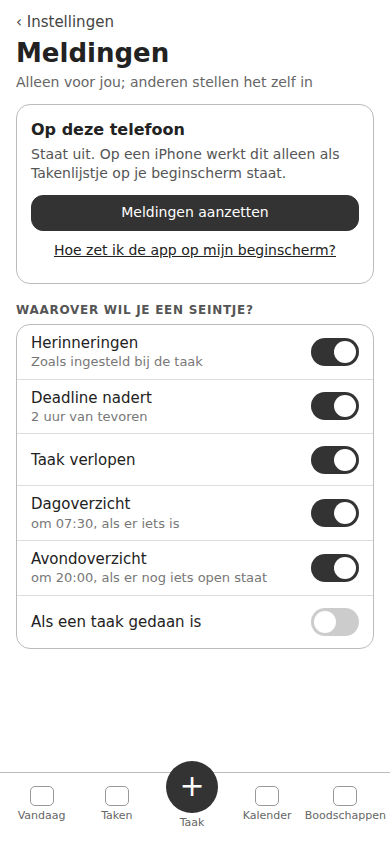
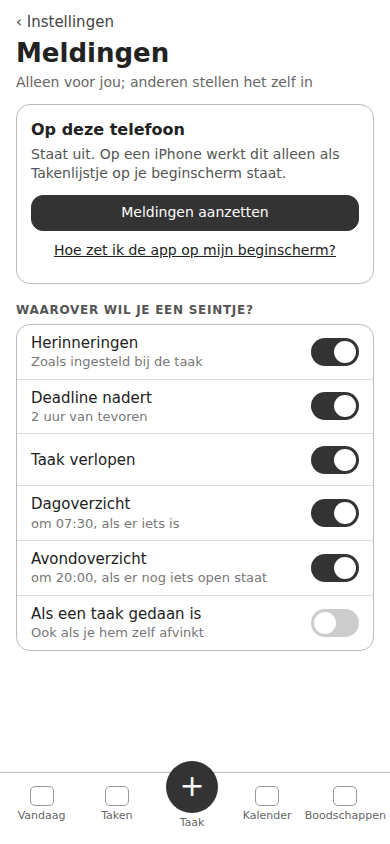
UX_SPEC ronde 6: V-37, V-38, V-39 verwerkt
Claude-Session: https://claude.ai/code/session_01WXgN2KAqhzPZRNUJQnq1N3

Changed region(s): [[0.0615, 0.7085, 0.5231, 0.7701], [0.8, 0.7393, 0.8615, 0.7701]]

diff --git a/docs/prototype/wireframes/21-meldingen-instellen.html b/docs/prototype/wireframes/21-meldingen-instellen.html
@@ -16,7 +16,7 @@
       <div class="li nochev"><div>Taak verlopen</div><span class="toggle on"></span></div>
       <div class="li"><div>Dagoverzicht<small>om 07:30, als er iets is</small></div><span class="toggle on"></span></div>
       <div class="li"><div>Avondoverzicht<small>om 20:00, als er nog iets open staat</small></div><span class="toggle on"></span></div>
-      <div class="li nochev"><div>Als een taak gedaan is</div><span class="toggle"></span></div>
+      <div class="li nochev"><div>Als een taak gedaan is<small>Ook als je hem zelf afvinkt</small></div><span class="toggle"></span></div>
     </div>
   </section>
 </main>

diff --git a/docs/TECHNICAL_DESIGN.md b/docs/TECHNICAL_DESIGN.md
@@ -12,7 +12,7 @@ Auteur: solution-architect. Document voor de bouwer (Claude); technische termen 
 4. laden, fouten, offline en sheets krijgen een vaste structuur (S-01…S-04, UX §12);
 5. de visuele laag wordt vervangen volgens `DESIGN_SYSTEM.md`.
 
-Ronde 2 (2026-09-28): Jurgen heeft V-30 t/m V-35 beantwoord met "Volg je voorstellen" (letterlijk in `docs/PROGRESS.md`). Ronde 3 (2026-09-28): de bevindingen van de plan-critic (ronde 1) die bij het technisch ontwerp horen, zijn verwerkt. Open blijven alleen `[OPEN: V-36]` en `[OPEN: V-38]` (zie §17).
+Ronde 2 (2026-09-28): Jurgen heeft V-30 t/m V-35 beantwoord met "Volg je voorstellen" (letterlijk in `docs/PROGRESS.md`). Ronde 3 (2026-09-28): de bevindingen van de plan-critic (ronde 1) die bij het technisch ontwerp horen, zijn verwerkt. Ronde 4: V-36 t/m V-39 verwerkt; er zijn geen open plekken meer (zie §17).
 
 ---
 
@@ -329,7 +329,7 @@ Gemeenschappelijk:
 | Actie | Invoer (zod) | Autorisatie | Transactie | Idempotentie | Resultaat | Offline |
 | --- | --- | --- | --- | --- | --- | --- |
 | `createTaskAction` | `taskInput` zonder `assignedMemberId`/`autoAssign`/`points`; verplicht `id` (client-uuid); optioneel `recurrence` met verplicht `recurrenceId` (client-uuid) | `requireMember`; RLS `can_create_tasks` | losse taak: één upsert. Reeks: insert van de reeks met de user-client (RLS), daarna `planner.topUp` (alleen invoegen) | upsert op `id` met `ignoreDuplicates`; reeks idem op `recurrenceId` | `TaskRow[]` (nieuw of bestaand) | **losse taak: ja** (optimistisch, in de wachtrij). **Reeks: nee** ("Hiervoor heb je internet nodig") |
-| `completeTaskAction` | `{ taskId, mutationId, completedAt, note? }` | `requireMember`; RPC `complete_task` (lidmaatschap, `for update` op de taak) | RPC (één transactie): completion + status. Daarna `planner.topUp([recurrence])` en `notify(task_completed)`; de ontvangers volgen het antwoord op V-38 `[OPEN: V-38]` (fouten daarin worden gelogd; de actie slaagt) | `client_mutation_id unique` + `unique (task_id)` + "al done → bestaande terug" | `{ completionId, taskId, wasLate }` | ja |
+| `completeTaskAction` | `{ taskId, mutationId, completedAt, note? }` | `requireMember`; RPC `complete_task` (lidmaatschap, `for update` op de taak) | RPC (één transactie): completion + status. Daarna `planner.topUp([recurrence])` en `notify(task_completed)`; ontvangers: **ieder actief lid met account dat "taak gedaan" aan heeft staan, inclusief wie afvinkte** (besluit V-38a). De actor-id wordt dus niet gebruikt om ontvangers te filteren, en de ontvangerslijst verraadt niet wie afvinkte (fouten daarin worden gelogd; de actie slaagt) | `client_mutation_id unique` + `unique (task_id)` + "al done → bestaande terug" | `{ completionId, taskId, wasLate }` | ja |
 | `undoCompleteAction` | `{ taskId }` | `requireMember`; RPC `undo_complete_task` (ieder actief lid, V-22) | RPC | niet `done` → no-op | `TaskRow` | ja (haalt een nog niet verstuurde afvinking uit de wachtrij, bestaand) |
 | `setTaskStatusAction` | `{ taskId, status: 'todo'\|'in_progress'\|'skipped' }` | `loadOwnTask`; RLS update | één update met `expectRows`; bij `skipped` in een reeks daarna `planner.topUp` | gelijke status → no-op | `TaskRow` | ja |
 | `moveTaskAction` | `{ taskId, date }` | `loadOwnTask`; RLS | één update: `scheduled_date`; `available_from` en `due_at` schuiven met hetzelfde aantal dagen (`shiftInstant`, **bevestigt de UX-aanname** §4.6); `is_exception = true` in een reeks | zelfde datum → no-op | `TaskRow` | ja |
@@ -350,7 +350,7 @@ Gemeenschappelijk:
 | Actie | Autorisatie | Uitvoering | Idempotentie |
 | --- | --- | --- | --- |
 | `createHouseholdAction` | `requireUser`; RPC weigert als al lid (BR-44) | RPC `create_household` | het tweede verzoek weigert "al lid" → de UI stuurt door naar `/` |
-| `updateHouseholdAction` (naam, tijdzone, `membersCanCreateTasks`) | `requireAdmin` | update + `expectRows`. **Tijdzone wijzigen** (plan-critic 19): bestaande taken houden hun opgeslagen momenten (`available_from`, `due_at` als tijdstip). Daarna plant de action met de systeemplanner alle actieve reeksen opnieuw vanaf morgen (`clear_series_occurrences(r, morgen, null, false)` per reeks + `topUp`), zodat nieuwe uitvoeringen de nieuwe tijdzone volgen. Uitzonderingen en gedane taken blijven. De gedragsbeschrijving staat hier; of het veld in de UI zichtbaar blijft, is een productkeuze (UC-12) | natuurlijk idempotent |
+| `updateHouseholdAction` (naam, `membersCanCreateTasks`) | `requireAdmin` | update + `expectRows`. **Tijdzone vast op `Europe/Amsterdam` (besluit V-39):** het invoerschema kent geen `timezone` meer. De UI toont de tijdzone alleen, zonder bediening. `create_household` negeert `p_timezone` en zet altijd `Europe/Amsterdam`. In de database: `check (timezone = 'Europe/Amsterdam')` in `…_200`, na voorcontrole M1(f). De kolom blijft bestaan, omdat de domeincode (`todayIn`, `zonedInstant`) de tijdzone als parameter gebruikt; zo blijft die code ongewijzigd en getest. Herplannen bij een tijdzonewissel is daarmee niet nodig | natuurlijk idempotent |
 | `completeOnboardingAction` | `requireAdmin` | update | idem |
 | `updateMemberAction` (profiel: naam, kleur, emoji / beheerder: rol, `isActive`) | `requireMember`; eigen rij of `requireAdmin`; guard (BR-24, V-29) | update + `expectRows` | idem |
 | `removeMemberAction` | `requireAdmin`; niet jezelf; guard | delete + `expectRows` | al weg → `NOT_FOUND` |
@@ -659,7 +659,7 @@ Alles is klein. Het risico zit in **herhaald** laden (P-01), niet in de volumes.
 | # | Stap | Wie | Controle |
 | --- | --- | --- | --- |
 | M0 | Voorbereiding in de sandbox: `…_200` en `…_210` + `restore_v2.sql` op een lokale kopie van het oude schema met seed-data die op live lijkt (alle vervallen velden gevuld, leden zonder account, ruilverzoeken, afwezigheden). Draaien: back-up → contract → restore → vergelijken | bouwer | `restore_check_v2.sql` geeft per tabel een identiek aantal rijen en een identieke checksum (`md5(string_agg(t::text, '' order by id))`) |
-| M1 | **Voorcontroles op live, alleen lezen, vóór elke WP2-migratie** (plan-critic 6; `supabase/ops/precheck_v2.sql`): (a) een gebruiker in meer dan één huishouden? (b) meer dan één completion per `task_id`? (c) meer dan één actieve boodschappenlijst per huishouden (de index in `…_200` zou dan falen)? (d) leden met account en `is_active = false` (ter controle na stap 0 van §12.3)? (e) aantallen van alles wat verdwijnt | bouwer | (a)/(b)/(c) ≠ 0 → **stoppen**, niets toepassen, de opties aan Jurgen voorleggen. Er wordt geen ontdubbelregel verzonnen. (d) ≠ 0 → melden |
+| M1 | **Voorcontroles op live, alleen lezen, vóór elke WP2-migratie** (plan-critic 6; `supabase/ops/precheck_v2.sql`): (a) een gebruiker in meer dan één huishouden? (b) meer dan één completion per `task_id`? (c) meer dan één actieve boodschappenlijst per huishouden (de index in `…_200` zou dan falen)? (d) leden met account en `is_active = false` (ter controle na stap 0 van §12.3)? (e) aantallen van alles wat verdwijnt? (f) een huishouden met een andere tijdzone dan `Europe/Amsterdam` (V-39) | bouwer | (a)/(b)/(c)/(f) ≠ 0 → **stoppen**, niets toepassen, de opties aan Jurgen voorleggen. Er wordt geen ontdubbelregel verzonnen. (d) ≠ 0 → melden |
 | M2 | `…_200_scope_expand` op live + de WP2a-code deployen. De app schrijft geen persoonsvelden meer en leest ze niet | bouwer | rooktest; `select count(*) … where completed_by_member_id is not null and completed_at > <deploymoment>` = 0 |
 | M3 | **Back-up** (besluit V-33): `supabase/ops/backup_v2.sql` kopieert **alle tabellen van `public`** 1-op-1 naar het schema `backup_v2_<datum>` in hetzelfde project (Frankfurt). Het schema wordt niet via de API ontsloten: `revoke all … from anon, authenticated`. **Geen los exportbestand** (V-33); er verlaten geen persoonsgegevens het project | bouwer | rijen in de back-up = rijen op live, per tabel |
 | M4 | **Restore-test:** `restore_check_v2.sql` zet de back-up terug in een apart schema `restore_check` en vergelijkt aantallen en checksums met live. Daarna wordt `restore_check` weer gedropt | bouwer | alle tabellen identiek → verder; anders stoppen |
@@ -734,15 +734,15 @@ Alles is klein. Het risico zit in **herhaald** laden (P-01), niet in de volumes.
 | **WP1 — Rechtenmodel en securityfixes (live, niet-destructief)** | **Eerst stap 0 van §12.3** (telling van uitgezette leden met account op live; > 0 → Jurgen). Migraties `…_100`, `…_110` (inclusief de regel "Reekskoppeling"); **wachtrij-endpoint `POST /api/outbox` + `OUTBOX_VERSION` + `migrateOutboxEntry` + "nooit stil weggooien" (§9.3.1)**, zodat elke latere deploy de offline-wachtrij niet meer kan breken; `src/server/system/**` + ESLint-regel; `expectRows`; `ActionResult.code`; `stopSeries`, `pauseSeries`, `deleteTask` en `updateTask future` via RPC's zonder service role; `systemDb` en `fallbackDb` weg; notificatie-insert alleen door het systeem + URL-check + SW-originecheck; `/api/status` achter Bearer; `is_active` in de helpers + `/geen-toegang` (minimaal) + `clearLocalData()` bij uitloggen en uitzetten; Next 16.3.7. Op de **huidige** UI (alleen de minimaal nodige UI-aanpassing) | — | B-01, B-02 (route vervalt pas in WP2; tot dan: `autoAssign` met de user-client en een weigering als het niet mag), B-03, B-04, B-05, BR-22, BR-23, BR-24, BR-25, BR-26, BR-43, V-29 | geen (backend) | code, test-writer, **security**. Live na de review |
 | **WP2a — Scope uit de code + expand (aanbeveling 15)** | Code: toewijzing, verdeling, ruilen, afwezigheid, punten, "namens", `completed_by` en `added_by`/`bought_by` eruit (server, domein, store, mutaties, de schermen waar ze nu staan: minimaal verwijderen, geen herontwerp); `complete_task` v2, `undo` voor iedereen; voorkeuren per rol; `author_name` + triggers (V-34); BR-44; idempotente uitnodigingen, standaardtaken en archiveren; `migrateOutboxEntry` v0 → v1 voor de vervallen soorten; seed en tests bijgewerkt; M0 (sandbox-proef van het draaiboek). Live: §12.4 **M1 (voorcontroles) → M2 (expand + deploy)** | WP1 | UC-02, BR-10…BR-14, BR-20, BR-31 (standaarden), BR-41, BR-42, BR-44, R-03, V-21, V-22, V-24, V-25, V-34 | geen (backend); rooktest na M2 | code, test-writer, **security**, **performance** (snapshot zonder de vervallen tabellen) |
 | **WP2b — Back-up, bevestiging en wissen (contract)** | §12.4 **M3–M8**: back-up, restore-test, hertelling, **"ja, wissen" van Jurgen (M5)**, `…_210` in dezelfde sessie, rooktest, na 30 dagen de back-up opruimen. Het wachten op Jurgen houdt WP3 en verder **niet** tegen: de code van WP2a gebruikt de vervallen kolommen al niet meer | WP2a (en M0 geslaagd) | BR-46, V-26, V-33; succescriterium 7 | geen; controles M6 | code (scripts), **security** (inhoudscontrole meldingen, privacytest op live). **Bevestiging van Jurgen bij M5** |
-| **WP3 — Achtergrond: planner, tick, meldingen, retentie** | `supabase/ops/planner.sql` (V-32: pg_cron + pg_net, geheim in Vault); tick set-gebaseerd (§11.3); ontvangers volgens V-23; teksten zonder namen; ontvangers van "taak gedaan" volgens `[OPEN: V-38]`; `pushed_at` op id; push-time-out; `…_300_retentie`; `vercel.json` als vangnet | **WP2a** (niet WP2b: de planner hangt niet af van het wissen) | BR-16, BR-30, BR-31, BR-45, R-01, R-02, UC-08 | geen; meting: tijd tussen het geplande moment en de melding ≤ 15 min (succescriterium 5) | code, test-writer, **security** (Bearer, Vault), **performance** (tickduur) |
+| **WP3 — Achtergrond: planner, tick, meldingen, retentie** | `supabase/ops/planner.sql` (V-32: pg_cron + pg_net, geheim in Vault); tick set-gebaseerd (§11.3); ontvangers volgens V-23; teksten zonder namen; "taak gedaan" naar iedereen met die voorkeur aan, ook naar wie afvinkte (V-38a; `recipientsFor` krijgt geen actor-parameter); `pushed_at` op id; push-time-out; `…_300_retentie`; `vercel.json` als vangnet | **WP2a** (niet WP2b: de planner hangt niet af van het wissen) | BR-16, BR-30, BR-31, BR-45, R-01, R-02, UC-08 | geen; meting: tijd tussen het geplande moment en de melding ≤ 15 min (succescriterium 5) | code, test-writer, **security** (Bearer, Vault), **performance** (tickduur) |
 | **WP4 — Fundament UI: tokens, lettertype, shell, navigatie, states, sheets** | `globals.css` volgens DESIGN_SYSTEM §4 (één bron, D-01); Figtree zelf gehost via `next/font/local` (V-31); accent `#2B4C9B` + nieuw app-icoon in die tint (V-30); componenten in `src/components/ui/*` restyled; `AppShell` (onderbalk: Vandaag · Taken · + · Kalender · Boodschappen; kop: bel + tandwiel; V-28); max. 480 px-kolom (D-05); Toaster onder; `(app)/layout` met Suspense + `DataErrorBoundary`; `loading`/`error`/`not-found`/`global-error`; `SheetHost` + `sheets.ts` + `appUrl`; offlinebalk; SW: 3 s time-out, `/offline`-fallback, `CLEAR_PAGES`; snapshot-slices + gericht Realtime (P-01); manifest `theme_color` | WP2a | S-01, S-04, D-01, D-05, P-01, UX §3, §7 | **CP1** (shell en navigatie, leeg, laden, fout, offline) | code, test-writer, **performance** (payload, LCP), **visual-qa** |
 | **WP5 — Vandaag en de afvinken-kernflow + taakdetail** | Vandaag volgens UX §5.1 (Verlopen, Vandaag, gedaan-regel, Binnenkort, weekkaart); taakrij met **twee losse knoppen** (rondje + rij, A-01); optimistisch afvinken en ongedaan maken; "wacht op verbinding"; detail-sheet `?taak=` (acties, notities met laadfout S-03, Vorige keren); lege staten a/b; outbox-foutafhandeling | WP4 | UC-01, UC-02, BR-10, BR-11, BR-13, BR-14, BR-17, D-02, A-01, S-03 (notities); succescriteria 6 | **CP2** (Vandaag) → **CP3** (kernflow met leeg, laden, fout, succes, offline, bezig) | code, test-writer (+ **E2E kernflow**), **performance**, **visual-qa** (CP2 en CP3), **ux-reviewer** (CP3) |
 | **WP6 — Taak maken en wijzigen, reeksen, Taken-scherm** | Nieuwe taak `?nieuw` (Naam · Wanneer, slimme invoer zonder personen, Herhalen, Meer instellingen; offline losse taak); Bewerken `?bewerk` + "Wat wil je wijzigen?"; pauzeren, hervatten, stoppen, verwijderen; Taken (Open, Gedaan, Terugkerend, filtersheet, actieve filters wissen, zoekveld met label); reeksdetail `?reeks` met **Wijzigen via `updateSeriesAction`** (ook zonder open uitvoering of tijdens een pauze); standaardtaken activeren | WP5 | UC-03, UC-04, BR-01, BR-02, BR-08, BR-09, BR-18, BR-20, BR-22, BR-23, S-03 (filters), A-03 (label), D-04 | CP3-aanvulling (formulierstates) | code, test-writer, **visual-qa**, **ux-reviewer** |
-| **WP7 — Instellingen, account en auth** | Instellingen als lijst + subpagina's (D-03); profiel; meldingen instellen + push (iOS-uitleg); gezinsleden (uitzetten, weer aanzetten, rol, verwijderen, uitnodigen, intrekken); standaardtaken beheren; huishouden (+ verwijderen); account verwijderen; login zonder "Nieuw"; wachtwoord vergeten en nieuw wachtwoord; uitnodiging accepteren (account maken of inloggen, BR-44-fout); onboarding zonder verdeling en zonder Google/Apple; `/geen-toegang` definitief; het scherm "niet meer lid" vóór de onboarding (§4.6); tijdzone wijzigen met herplannen (§6.2) | WP4 (WP5 voor de navigatie) | UC-09, UC-10, UC-11, UC-12, BR-24, BR-41, BR-43, BR-44, V-14, V-15, V-23, V-29 | CP3-aanvulling (instellingen, login) | code, test-writer, **security** (auth-flows, verwijderen), **visual-qa**, **ux-reviewer** |
+| **WP7 — Instellingen, account en auth** | Instellingen als lijst + subpagina's (D-03); profiel; meldingen instellen + push (iOS-uitleg); gezinsleden (uitzetten, weer aanzetten, rol, verwijderen, uitnodigen, intrekken); standaardtaken beheren; huishouden (+ verwijderen); account verwijderen; login zonder "Nieuw"; wachtwoord vergeten en nieuw wachtwoord; uitnodiging accepteren (account maken of inloggen, BR-44-fout); onboarding zonder verdeling en zonder Google/Apple; `/geen-toegang` definitief; het scherm "niet meer lid" vóór de onboarding (§4.6); tijdzone alleen tonen, vast `Europe/Amsterdam` (V-39, §6.2) | WP4 (WP5 voor de navigatie) | UC-09, UC-10, UC-11, UC-12, BR-24, BR-41, BR-43, BR-44, V-14, V-15, V-23, V-29 | CP3-aanvulling (instellingen, login) | code, test-writer, **security** (auth-flows, verwijderen), **visual-qa**, **ux-reviewer** |
 | **WP8 — Kalender, Boodschappen, Meldingen, Overzicht** | Kalender dag/week/maand met periodes laden (S-02), spookjes, "+ Taak" per dag, slepen als extra naast "Andere dag…" (A-02); Boodschappen (onderbalk, archiveren + ongedaan maken, bewerken `?product`); Meldingen (groepen, keyset "Oudere laden", push-kaart, A-03-stip); Overzicht (`/overzicht`, huishoudcijfers, lege staat) | WP5 | UC-05, UC-06, UC-07, UC-08, BR-42, S-02, S-03, A-02, A-03, D-04 | **CP4-voorbereiding** | code, test-writer, **performance** (periodes laden, meldingen), **visual-qa**, **ux-reviewer** |
 | **WP9 — Hardening en opruimen** | Alle states uit UX §7 nalopen; CSP met nonce in `proxy.ts`; ESLint bijwerken; dode code weg (`src/integrations/*`, features van toewijzing, punten en afwezigheid, `supabase/cron/schedule-tick.sql`); `docs/ARCHITECTUUR.md` vervangen door een verwijzing naar dit document (lost de vier afwijkingen op); prototypes archiveren; E2E volledig; succescriteria 5–7 meetbaar maken | WP3–WP8 | DoD niveau 2, INVENTARIS §7 "Overig" | **CP4** (volledige UI, licht en donker, 390×844) | alle verplichte reviewers voor de release gate: code, test-writer, **security** (volledig), **performance**, **ux**, **visual-qa**, accessibility (voorstel) |
 
-**Uitrol:** welke WP's direct live gaan en welke samen in één release, volgt uit `[OPEN: V-36]` (zie §12.3).
+**Uitrol (V-36):** WP1, WP2a, WP2b en WP3 gaan direct live op `main`, op de oude UI. WP4–WP8 worden gebouwd op de branch `v2-ui` en gaan pas samen live na WP9 (§12.3).
 
 **Waarom WP1–WP3 vóór de UI:**
 - B-01 is een open BLOKKEREND-bevinding op de live app.
@@ -788,11 +788,14 @@ Alles is klein. Het risico zit in **herhaald** laden (P-01), niet in de volumes.
 
 ## 17. Besluiten van Jurgen (verwerkt) en open punten
 
-**Open punten (wachten op Jurgen, gesteld via de plan-critic):**
-- `[OPEN: V-36]` Uitrolstrategie: welke WP's direct live gaan en welke samen (§12.3, §15).
-- `[OPEN: V-38]` Ontvangers van "taak gedaan" (§6.1, WP3). De plan-critic constateert dat "niet naar de afvinker" verraadt wie afvinkte.
+**Open punten:**
+- Geen. Jurgen besliste op 2026-09-28 ("Volg voorstellen", letterlijk in `docs/PROGRESS.md`):
+  - **V-36:** WP1–WP3 gaan direct live; WP4–WP8 gaan pas samen live na WP9 (§12.3, §15).
+  - **V-37:** een taak wijzigen mag 4–5 tikken kosten (geen gevolgen voor dit ontwerp).
+  - **V-38 (a):** "taak gedaan" gaat ook naar wie afvinkte (§6.1, WP3).
+  - **V-39:** tijdzone vast op `Europe/Amsterdam`, alleen zichtbaar (§6.2).
 
-**Verwerkt uit de plan-critic ronde 1 (TD-deel):** punten 1 (meldingen met namen wissen, §12.4), 3 (eerlijke grens van de platformlogs, §9.4), 4 (Reekskoppeling, §5.2), 5 (`author_name`, §3.1), 6 (voorcontroles vóór expand, §12.4 M1), 7 (telling van uitgezette leden vóór WP1, §12.3 stap 0), 9 (wachtrij over deploys, §9.3.1), 10 (`updateSeriesAction`, §6.1), 12 (technische detectie "niet meer lid", §4.6), 13 (offline in het taakdetail, §9.3), 15 (WP2a/WP2b, §15), 16 (hertellen vóór M5, M6 in dezelfde sessie), 17 (`delete_my_account` via `user_id`, §4.5), 19 (gedrag bij tijdzonewijziging, §6.2).
+**Verwerkt uit de plan-critic ronde 1 (TD-deel):** punten 1 (meldingen met namen wissen, §12.4), 3 (eerlijke grens van de platformlogs, §9.4), 4 (Reekskoppeling, §5.2), 5 (`author_name`, §3.1), 6 (voorcontroles vóór expand, §12.4 M1), 7 (telling van uitgezette leden vóór WP1, §12.3 stap 0), 9 (wachtrij over deploys, §9.3.1), 10 (`updateSeriesAction`, §6.1), 12 (technische detectie "niet meer lid", §4.6), 13 (offline in het taakdetail, §9.3), 15 (WP2a/WP2b, §15), 16 (hertellen vóór M5, M6 in dezelfde sessie), 17 (`delete_my_account` via `user_id`, §4.5), 19 (tijdzone: vervangen door V-39, vast, §6.2).
 
 Jurgen antwoordde op 2026-09-28 op V-30 t/m V-35: "Volg je voorstellen" (letterlijk in `docs/PROGRESS.md`).
 

diff --git a/docs/UX_SPEC.md b/docs/UX_SPEC.md
@@ -1,10 +1,10 @@
 # UX-specificatie — Takenlijstje
 
-Versie: ronde 5 (2026-09-28, plan-critic ronde 1 punten 10, 12, 13 en 21 verwerkt; V-37 open) · Kwaliteitsniveau 2 · Werkwijze §15 (bestaand project), fase 3.
+Versie: ronde 6 (2026-09-28, plan-critic ronde 1 punten 10, 12, 13 en 21 verwerkt; V-37, V-38 en V-39 beantwoord) · Kwaliteitsniveau 2 · Werkwijze §15 (bestaand project), fase 3.
 Basis: `docs/PRODUCT_SPEC.md` (ronde 3), de besluiten en antwoorden in `docs/PROGRESS.md`, `docs/INVENTARIS.md` en de huidige schermen in `docs/screenshots/bestaand/`.
 Dit document beschrijft **hoe de gebruiker zijn doel bereikt**: structuur, flows, schermen en states. Kleur, typografie en vorm zijn werk voor de visual-designer; de wireframes zijn bewust grijs.
 
-Open plekken zijn gemarkeerd met `[OPEN: V-nr]` (zie §12). Nu open: V-37.
+Er zijn geen open plekken (zie §12).
 
 ---
 
@@ -13,7 +13,7 @@ Open plekken zijn gemarkeerd met `[OPEN: V-nr]` (zie §12). Nu open: V-37.
 1. **Eén oogopslag.** Bij het openen zie je zonder te scrollen wat verlopen is en wat vandaag moet, elk met **vóór wanneer** (PRODUCT_SPEC §11.6).
 2. **Eén tik om af te vinken**, overal hetzelfde rondje links in de rij. Ongedaan maken kan altijd: direct via de melding onderin, later door het gevulde rondje opnieuw aan te tikken of via het taakdetail.
 3. **Geen personen bij taken.** Geen avatars, geen "Wie?", geen "Mijn taken / Iedereen", geen "gedaan door" (V-21, V-22, V-25). Namen verschijnen alleen bij notities ("Ellen: …"), in de ledenlijst en in het profiel.
-4. **Maximaal twee tikken** voor afvinken, toevoegen, wijzigen en verplaatsen (overgenomen besluit, INVENTARIS §2; typen telt niet als tik, een keuze uit een datumkiezer wel). "Toewijzen" vervalt. Afvinken, toevoegen, verplaatsen ("Naar morgen") en bezig halen dit. Naam of details wijzigen kost 4 à 5 tikken (§4.5): `[OPEN: V-37]` of Jurgen die afwijking accepteert.
+4. **Maximaal twee tikken** voor afvinken, toevoegen, wijzigen en verplaatsen (overgenomen besluit, INVENTARIS §2; typen telt niet als tik, een keuze uit een datumkiezer wel). "Toewijzen" vervalt. Afvinken, toevoegen, verplaatsen ("Naar morgen") en bezig halen dit. Naam of details wijzigen kost 4 à 5 tikken (§4.5); die afwijking heeft Jurgen geaccepteerd (V-37).
 5. **Minder op het scherm.** Wat niet nodig is voor de taak van dat moment, zit achter één tik (progressive disclosure): gedane taken, meer instellingen, historie.
 6. **Verbergen versus uitschakelen.** Wat een rol *nooit* mag, wordt verborgen. Wat *nu even* niet kan (offline, lege naam, laatste beheerder), wordt uitgeschakeld met een zin uitleg.
 
@@ -33,7 +33,7 @@ Gevolgen voor het ontwerp:
 **Objecten en relaties**
 
 ```
-Huishouden (naam, tijdzone, "gezinsleden mogen taken maken")
+Huishouden (naam, tijdzone vast Europe/Amsterdam, "gezinsleden mogen taken maken")
 ├── Leden (naam, kleur, emoji, rol: beheerder | gezinslid, actief)
 ├── Uitnodigingen (rol, optioneel e-mail, geldig 14 dagen)
 ├── Reeksen = terugkerende taken (ritme, deadline-venster, pauze, einddatum; maker onzichtbaar)
@@ -115,7 +115,7 @@ Vanuit Nieuwe taak (wireframe 09):
 3. Bij een taak uit een reeks **en** je mag de reeks wijzigen (beheerder of maker): sheet **"Wat wil je wijzigen?"** met twee grote keuzes en een zin per keuze wat er gebeurt (wireframe 11): "Alleen deze keer" / "Deze en alle volgende keren". (5)
 4. Gezinslid dat de reeks niet instelde: de keuze verschijnt niet; boven Opslaan staat "Dit verandert alleen deze keer. De hele reeks aanpassen kan een beheerder." Er wordt nooit iets aan de reeks gedaan (BR-22).
 
-`[OPEN: V-37]` Wijzigen is hiermee meer dan twee tikken (4 à 5), in afwijking van het overgenomen besluit; wacht op Jurgen. het snelle wijzigen dat vaak voorkomt (verplaatsen, bezig, afvinken) staat daarom direct in het detail (4.6). Titel wijzigen = detail → Bewerken → typen → Opslaan.
+Wijzigen van naam of details kost hiermee 4 à 5 tikken; Jurgen heeft die afwijking van de twee-tikken-regel geaccepteerd (V-37). Het snelle wijzigen dat vaak voorkomt (verplaatsen, bezig, afvinken) staat daarom direct in het detail (4.6). Titel wijzigen = detail → Bewerken → typen → Opslaan.
 - Foutpad: server weigert (rechten gewijzigd, reeks gestopt) → sheet blijft open met de invoer, melding "Dit mag je niet (meer) wijzigen. Er is niets veranderd."
 - Wijziging aan een taak die intussen is afgevinkt: de wijziging wordt opgeslagen, de taak blijft gedaan (PRODUCT_SPEC §6).
 
@@ -146,7 +146,7 @@ Alleen zichtbaar voor wie het mag (beheerder, of maker van de reeks/taak). Ander
 ### 4.9 Meldingen bekijken (UC-08)
 - Via het belletje (badge = aantal ongelezen) of een pushmelding. Een pushmelding opent direct de taak (detail-URL) of Vandaag (dag-/avondoverzicht).
 - Lijst gegroepeerd: Vandaag / Eerder. Ongelezen vet met stip. Tik = gelezen + naar de taak. **Alles gelezen** rechtsboven. Na 30 meldingen **Oudere meldingen laden** (S-03).
-- Soorten en tekst zonder namen: "Deadline nadert — Tandartsafspraak Kai maken, vóór 12:00", "Vandaag staan er 5 taken", "Er staan nog 3 taken open", "Vaatwasser uitruimen is gedaan", "Fietsband plakken is verlopen", "Herinnering: Boodschappen doen om 10:00". Ruilverzoeken en "Nieuwe taak voor jou" vervallen.
+- Soorten en tekst zonder namen: "Deadline nadert — Tandartsafspraak Kai maken, vóór 12:00", "Vandaag staan er 5 taken", "Er staan nog 3 taken open", "Vaatwasser uitruimen is gedaan" (gaat naar iedereen die deze soort aan heeft, ook naar wie afvinkte, zodat de ontvangers niet verraden wie het deed; V-38), "Fietsband plakken is verlopen", "Herinnering: Boodschappen doen om 10:00". Ruilverzoeken en "Nieuwe taak voor jou" vervallen.
 - Staat push op dit toestel uit: bovenaan een kaart "Meldingen op je telefoon staan uit · Aanzetten · Niet nu". "Niet nu" verbergt de kaart 14 dagen.
 
 ### 4.10 Meldingen instellen en push aanzetten
@@ -154,7 +154,7 @@ Instellingen › Meldingen (wireframe 21):
 1. Kaart "Op deze telefoon": **Meldingen aanzetten** (1) → systeemvraag van de browser (2) → "Aan op deze telefoon".
 2. iPhone zonder beginscherm-installatie: de knop is vervangen door een korte stappenuitleg met afbeeldingen: "Tik op Deel → Zet op beginscherm → open Takenlijstje vanaf je beginscherm." De app herkent daarna de installatie.
 3. Browser weigerde eerder: uitleg "Meldingen zijn geblokkeerd in je instellingen" met waar je dat terugzet.
-4. Per soort een schakelaar (herinneringen, deadline nadert met instelbare tijd, verlopen, dagoverzicht met tijd, avondoverzicht met tijd, taak gedaan). Standaardwaarden volgens BR-31 (beheerders aan, gezinsleden uit, "taak gedaan" voor iedereen uit). Opslaan direct per schakelaar, met een korte bevestiging "Opgeslagen".
+4. Per soort een schakelaar (herinneringen, deadline nadert met instelbare tijd, verlopen, dagoverzicht met tijd, avondoverzicht met tijd, taak gedaan, met de uitleg "Ook als je hem zelf afvinkt"). Standaardwaarden volgens BR-31 (beheerders aan, gezinsleden uit, "taak gedaan" voor iedereen uit). Opslaan direct per schakelaar, met een korte bevestiging "Opgeslagen".
 
 ### 4.11 Uitnodigen (UC-09) — beheerder
 1. Instellingen › Gezinsleden (2) → **Iemand uitnodigen** (3) → sheet: Rol (**Gezinslid** standaard / Beheerder), E-mailadres (optioneel, met uitleg "Alleen dit adres kan de link dan gebruiken") → **Link maken** (4).
@@ -284,7 +284,7 @@ Van één pagina van ~8700 px naar **een korte lijst met subpagina's**, elk met 
 | Jij | Meldingen | push op dit toestel + soorten (§4.10) | iedereen |
 | Huishouden | Gezinsleden | leden, uitnodigen, open uitnodigingen, "gezinsleden mogen taken toevoegen" | beheerder: beheren · gezinslid: alleen de lijst bekijken |
 | Huishouden | Standaardtaken | bibliotheek, activeren, eigen standaardtaken beheren | beheerder |
-| Huishouden | Huishouden | naam, tijdzone, Huishouden verwijderen… | beheerder |
+| Huishouden | Huishouden | naam; tijdzone alleen zichtbaar ("Europe/Amsterdam", niet te wijzigen, V-39); Huishouden verwijderen… | beheerder |
 | Account | Ingelogd als <e-mail> | — (alleen informatie) | iedereen |
 | Account | Uitloggen | bevestiging (§4.12) | iedereen |
 | Account | Account verwijderen | §4.13 | iedereen |
@@ -457,10 +457,12 @@ HTML in `docs/prototype/wireframes/` (gedeelde stijl `wf.css`), screenshots op 3
 
 ## 12. Open vragen en aannames
 
-**Vragen voor Jurgen**
-- **V-37** (gesteld door de plan-critic; wacht op Jurgen) — Mag "naam of details van een taak wijzigen" 4 à 5 tikken kosten, in afwijking van het overgenomen besluit "wijzigen in maximaal twee tikken"? Verplaatsen, bezig en afvinken blijven twee tikken. Voorstel: akkoord. Gemarkeerd in §0 en §4.5.
+**Vragen voor Jurgen:** geen open vragen.
 
 **Beantwoord (2026-09-28, letterlijk in `docs/PROGRESS.md`):**
+- **V-37** — "Volg voorstellen": naam of details wijzigen mag 4 à 5 tikken; afvinken, verplaatsen en bezig blijven 2 tikken. Verwerkt in §0 en §4.5.
+- **V-38** — (a): de melding "taak gedaan" gaat ook naar wie afvinkte. Verwerkt in §4.9 en §4.10 (en wireframe 21).
+- **V-39** — tijdzone vast op Europe/Amsterdam, alleen zichtbaar, niet te wijzigen. Verwerkt in §2 en §5.8.
 - **V-28** — "Volg voorstel": Boodschappen in de onderbalk, Huishouden-overzicht als kaart onderaan Vandaag. Verwerkt in §3, §5.1, §5.6.
 - **V-34** — besluit van Jurgen: de naam van de schrijver blijft bij notities staan, ook na account verwijderen of verwijderen uit het huishouden. Verwerkt in §4.13 en §4.15.
 - **V-29** — "Volg voorstel": uitgezet = geen toegang tot het huishouden en geen meldingen; account en notities blijven; weer aanzetten herstelt alles. Verwerkt in §4.15, §7, §9 en wireframe 16.

diff --git a/docs/PRODUCT_SPEC.md b/docs/PRODUCT_SPEC.md
@@ -1,7 +1,7 @@
 # Productspecificatie — Takenlijstje
 
 Versie: ronde 3 (2026-09-28) · Kwaliteitsniveau 2 · Werkwijze §15, stap 3 (bestaand project).
-Status: ronde 4 (na plan-critic ronde 1). Er staan nog vier vragen open bij Jurgen: V-36, V-37 en V-38 van de plan-critic, en V-39 over de tijdzone (zie §13). Nog niet bevroren.
+Status: ronde 5 (na plan-critic ronde 1). Alle vragen zijn beantwoord, tot en met V-39. Nog niet bevroren.
 
 **Bronnen**
 - De besluiten en antwoorden van Jurgen in `docs/PROGRESS.md` (V-04, en V-05 t/m V-27). Die zijn leidend.
@@ -235,7 +235,8 @@ Jurgen heeft per gegeven besloten (V-25):
 ### UC-12 — Instellingen en beheer
 - **Iedereen:** eigen profiel (naam, kleur, emoji), meldingen en push, uitloggen, account verwijderen.
 - **Beheerder daarnaast:**
-  - huishouden: naam, tijdzone, "gezinsleden mogen taken maken". Wat er met de deadlines van open taken gebeurt als de tijdzone verandert, of dat de tijdzone vast blijft: `[OPEN: V-39]`;
+  - huishouden: naam en "gezinsleden mogen taken maken";
+  - de **tijdzone staat vast op Europe/Amsterdam**. Hij is alleen zichtbaar en door niemand te wijzigen, ook niet door een beheerder (V-39). Daardoor verschuiven deadlines en herinneringen nooit door een andere tijdzone;
   - gezinsleden: (de)activeren, rol wijzigen en verwijderen. Voorkeur: deactiveren in plaats van verwijderen (V-15);
   - uitnodigingen;
   - terugkerende taken en standaardtaken;
@@ -314,8 +315,8 @@ Jurgen heeft per gegeven besloten (V-25):
   - **Dagoverzicht** (standaard 07:30): "Vandaag staan er N taken", alleen als N > 0.
   - **Avondoverzicht** (standaard 20:00): "Er staan nog N taken open (vandaag en verlopen)", alleen als N > 0.
   - **Taak gedaan:** "'Vaatwasser uitruimen' is gedaan", **zonder naam**. Standaard uit.
-    - **Wie hem krijgt, is nog open `[OPEN: V-38]`.** Volgens de eerdere tekst ging de melding niet naar degene die afvinkte. Maar dan is in de opgeslagen meldingen 90 dagen lang af te leiden wie het was, en dat botst met V-21 (plan-critic ronde 1, punt 2).
-    - Tot het antwoord er is, geldt geen van de opties als besloten.
+    - **Ontvangers (V-38, optie a):** ieder actief lid met een account dat "taak gedaan" aan heeft staan, **ook degene die afvinkte**. Wie de melding krijgt, hangt dus alleen af van de voorkeuren, niet van wie afvinkte. Zo is uit de opgeslagen meldingen niet af te leiden wie het deed (V-21).
+    - De app gebruikt bij het versturen niet wie afvinkte.
   - **Nooit dubbel:** dezelfde melding komt per ontvanger nooit twee keer.
   - **Voorkeuren:** gelden per persoon.
   - **Ontvangers (V-23):**
@@ -325,7 +326,7 @@ Jurgen heeft per gegeven besloten (V-25):
   - **Gevolg van V-21:** er zijn geen meldingen meer die afhangen van een eigenaar, zoals "Nieuwe taak voor jou" of meldingen over ruilen.
 
 ### Overig
-- **BR-40 — Tijd:** alle datums worden bepaald in de tijdzone van het huishouden (standaard Europe/Amsterdam).
+- **BR-40 — Tijd:** alle datums worden bepaald in de tijdzone van het huishouden. Die staat vast op Europe/Amsterdam en is niet te wijzigen (V-39).
 - **BR-41 — Uitnodiging:**
   - is 14 dagen geldig en werkt één keer;
   - is optioneel gebonden aan een e-mailadres;
@@ -373,7 +374,10 @@ Jurgen heeft per gegeven besloten (V-25):
      Dit sluit aan op TECHNICAL_DESIGN §12.4.
   5. **Meldingsvoorkeuren van bestaande gezinsleden** (nu Lynn en Kai, als ze een account hebben) worden bij de overgang op de nieuwe standaard gezet: alle soorten **uit**. Dat geldt ook als ze die meldingen zelf hadden aangezet. De voorkeuren van beheerders blijven ongewijzigd. Dit volgt uit V-23. De bouwer noemt het expliciet in het totaalvoorstel aan Jurgen, zodat Lynn en Kai niet ongemerkt geen herinneringen meer krijgen. Ze kunnen het daarna zelf weer aanzetten.
 
-  **Hoe de nieuwe versie live gaat tijdens het bouwen** (per onderdeel, of alles samen): `[OPEN: V-36]`.
+  **Hoe de nieuwe versie live gaat tijdens het bouwen (V-36):**
+  - Beveiliging, de omzetting van de gegevens en de herinneringen elke 15 minuten (WP1 t/m WP3) gaan live zodra ze klaar zijn.
+  - De nieuwe schermen (WP4 t/m WP8) gaan samen live, na de afronding in WP9.
+  - Tot dan gebruikt het gezin de huidige schermen, zonder "Wie?", punten en ruilen.
 
   — waarom: het wissen is onomkeerbaar en raakt gegevens van het gezin.
 
@@ -515,7 +519,7 @@ Afgestemd op Jurgens doel (V-19): minder vergeten, en minder gevoel van oneerlij
    - herinneringen komen binnen 15 minuten na het geplande moment (R-01 opgelost).
 6. **Snel:**
    - afvinken is één tik, toevoegen minimaal *Naam · Wanneer?*;
-   - of wijzigen (naam of andere details) meer dan twee tikken mag kosten, tegenover het overgenomen besluit "maximaal twee tikken": `[OPEN: V-37]`;
+   - afvinken, verplaatsen en "bezig" kosten maximaal twee tikken. Naam of andere details wijzigen mag vier à vijf tikken kosten (V-37; dit vervangt voor dat deel het overgenomen besluit "maximaal twee tikken");
    - op 390×844 zijn de verlopen taken en die van vandaag zichtbaar zonder te scrollen, bij een normale dag (tot ongeveer 6 taken).
 7. **Privacy klopt:** de database bevat geen gegevens over wie een taak afvinkte. Geen kolom, en ook geen meldingstekst of ontvangerspatroon waaruit het af te leiden is (V-38). Dat is te controleren in het schema, op de inhoud van de meldingen en met een test. De toegangslogs van de platforms vallen erbuiten (BR-12).
 
@@ -547,17 +551,15 @@ Afgestemd op Jurgens doel (V-19): minder vergeten, en minder gevoel van oneerlij
 | V-25 | Maker bewaren maar niet tonen; schrijver van een notitie tonen; "toegevoegd door" en "gekocht door" bij boodschappen weg; duur blijft als informatie | §0, §8 |
 | V-26 | Eerst een back-up, dan wissen zoals voorgesteld (de afvinkhistorie blijft, zonder personen); vlak vóór het wissen nogmaals bevestiging van Jurgen | BR-46, §8, §9 |
 | V-27 | Succescriteria akkoord | §11 |
+| V-28 t/m V-35 | Navigatie, uitgezet lid, huisstijl, planner, back-up, notitienaam, inloginstellingen (zie PROGRESS) | UX_SPEC, TECHNICAL_DESIGN; hier §8 en BR-46 |
+| V-36 | WP1 t/m WP3 meteen live; de nieuwe schermen (WP4 t/m WP8) samen live na WP9 | BR-46 |
+| V-37 | Naam of details wijzigen mag 4 à 5 tikken; afvinken, verplaatsen en bezig blijven maximaal 2 | §11.6 |
+| V-38 | "Taak gedaan" gaat naar iedereen die hem aan heeft, ook naar wie afvinkte (optie a) | BR-31 |
+| V-39 | Tijdzone vast op Europe/Amsterdam, alleen zichtbaar | UC-12 |
 
 ## 13. Aannames en open vragen
 
 **Aannames** (zonder invloed op rechten, gegevens, privacy, scope of gebruikerservaring):
 - `[AANNAME]` De bestaande, geteste herhalingsregels (maandeinde, schrikkeljaar, n-de weekdag) zijn correct en blijven ongewijzigd (ook vastgelegd in PROGRESS).
 
-**Open vragen:**
-
-| Vraag | Onderwerp | Waar in dit document |
-| --- | --- | --- |
-| V-36 | Hoe de nieuwe versie live gaat tijdens het bouwen (plan-critic) | BR-46 |
-| V-37 | Mag wijzigen meer dan twee tikken kosten (plan-critic) | §11.6 |
-| V-38 | Wie krijgt de melding "taak gedaan" zonder dat af te leiden is wie afvinkte (plan-critic) | BR-31 |
-| V-39 | Tijdzone van het huishouden: alleen-lezen, of wijzigbaar met vastgelegd gedrag voor open deadlines | UC-12 |
+**Open vragen:** geen.

diff --git a/docs/ACCEPTANCE_CRITERIA.md b/docs/ACCEPTANCE_CRITERIA.md
@@ -40,10 +40,14 @@ Versie: ronde 1 (2026-09-28) · Kwaliteitsniveau 2 · Fase 6.
 
 - **"Maker"** is het lid dat een taak of reeks aanmaakte. Hij wordt nooit getoond (V-25).
 - **"Er verandert niets"** betekent: het aantal rijen en de waarden van de betrokken reeks, taken en historie zijn na de actie gelijk aan ervoor.
-- **Besluiten van Jurgen.** De criteria die van V-30 t/m V-35 afhingen, volgen die antwoorden. Na de plan-critic (ronde 1) staan er drie vragen open:
-  - **`[OPEN: V-36]` — uitrol.** Of een work package direct live gaat of samen met andere, bepaalt wanneer de toetsen "Live" en "Proces" per WP worden uitgevoerd. Het gaat om AC-054 en om de rooktests. Wat de criteria eisen, verandert niet.
-  - **`[OPEN: V-37]` — wijzigen in meer dan twee tikken.** Er is bewust geen criterium dat het aantal tikken voor "naam of details wijzigen" vastlegt, tot Jurgen beslist. AC-121 (verplaatsen in 2 tikken) staat daar los van.
-  - **`[OPEN: V-38]` — ontvangers van "taak gedaan".** Zie AC-073.
+- **Besluiten van Jurgen.** Alle criteria volgen de antwoorden tot en met V-39. Er zijn geen open punten meer.
+  - **V-36 — uitrol:**
+    - WP1 t/m WP3 gaan meteen live. Hun toetsen "Live" en "Proces" gebeuren per WP, direct na de deploy.
+    - WP4 t/m WP8 gaan samen live na WP9. Hun toetsen "Live" gebeuren bij die gezamenlijke release; tot dan wordt lokaal getoetst.
+    - Zie AC-180.
+  - **V-37 — tikken:** afvinken, verplaatsen en "bezig" kosten maximaal twee tikken. Naam of details wijzigen mag vier à vijf tikken kosten (AC-181).
+  - **V-38 — "taak gedaan":** gaat ook naar wie afvinkte (AC-073).
+  - **V-39 — tijdzone:** vast op Europe/Amsterdam, alleen zichtbaar (AC-182).
 - **Nieuwe criteria na de plan-critic.** Die hebben de nummers AC-170 t/m AC-179 gekregen en staan in de sectie van hun work package. Zo blijven de bestaande verwijzingen kloppen.
 - **WP2 = WP2a + WP2b.** TECHNICAL_DESIGN splitst WP2 in WP2a (code en expand) en WP2b (draaiboek M2–M8).
   - Hier staat "WP2" voor beide.
@@ -388,7 +392,7 @@ DAN staan de genoemde soorten uit voor leden met rol gezinslid, ook als het lid 
 
 ### AC-054 — Na de expand-stap schrijft de app geen persoon meer (WP2; BR-46; draaiboek M1)
 GEGEVEN `…_200` en de WP2-code staan op live
-WANNEER er na het moment van deployen wordt afgevinkt (het moment van deployen hangt af van `[OPEN: V-36]`)
+WANNEER er na het moment van deployen wordt afgevinkt. WP2a gaat direct live, met de huidige schermen (V-36)
 DAN is het aantal taken met `completed_by_member_id is not null` en `completed_at > <deploymoment>` gelijk aan 0
 **Toets:** Live + Proces
 
